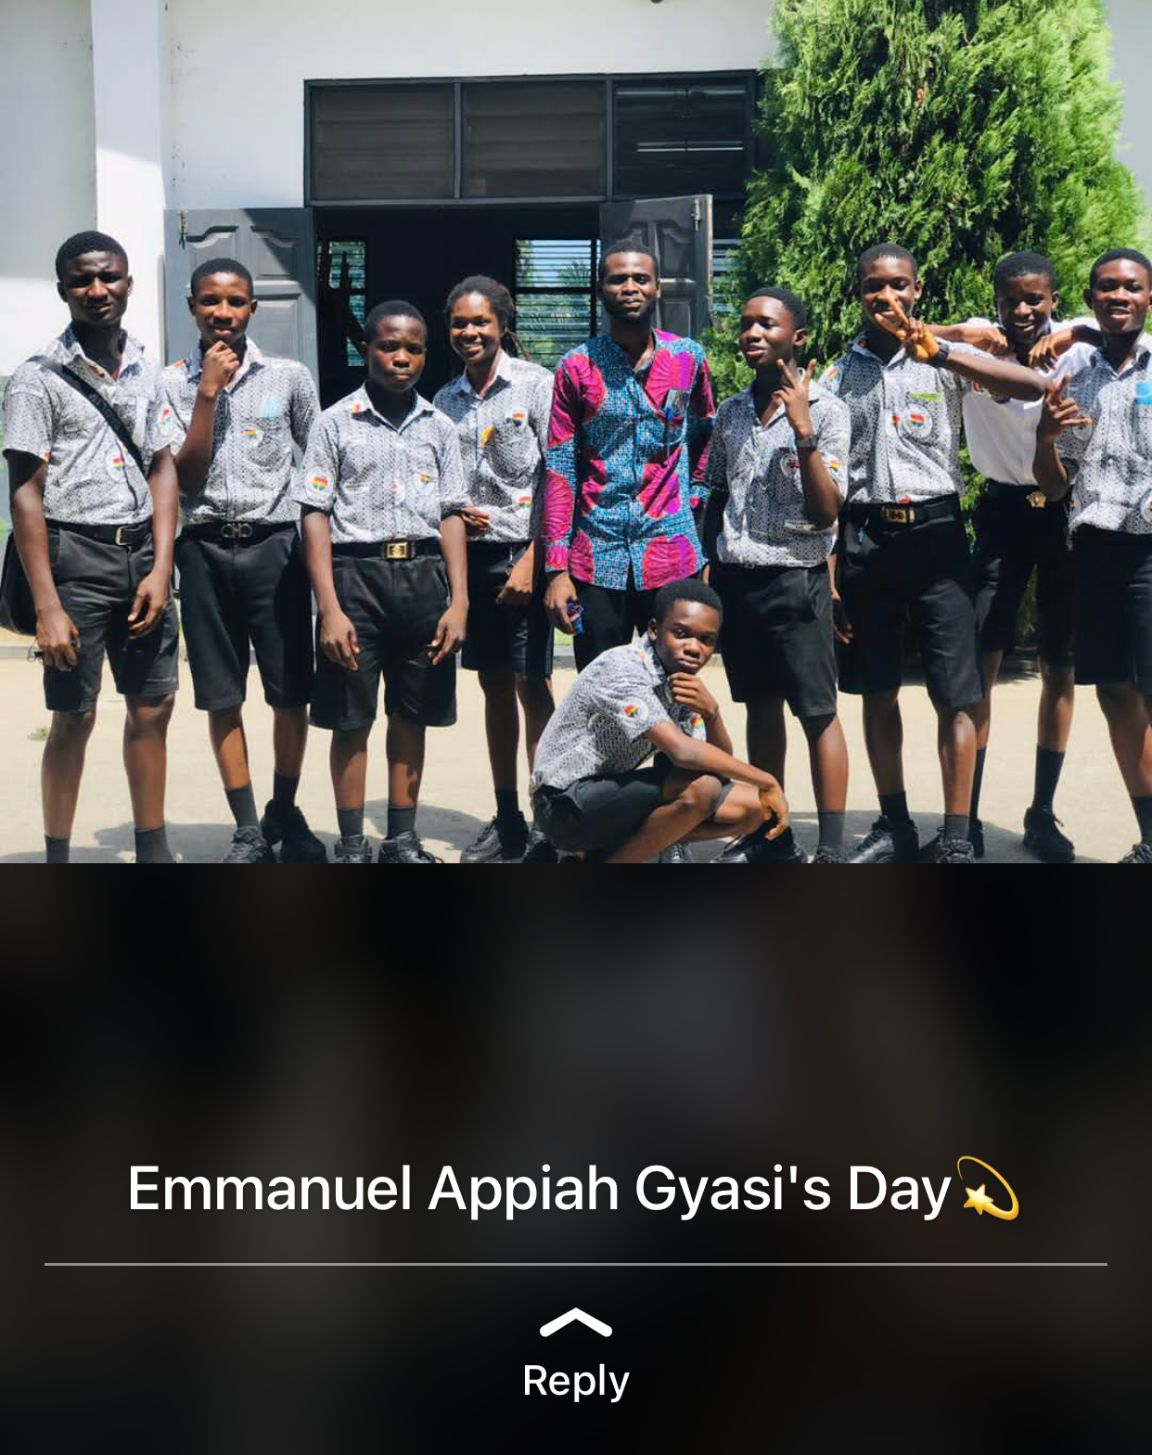
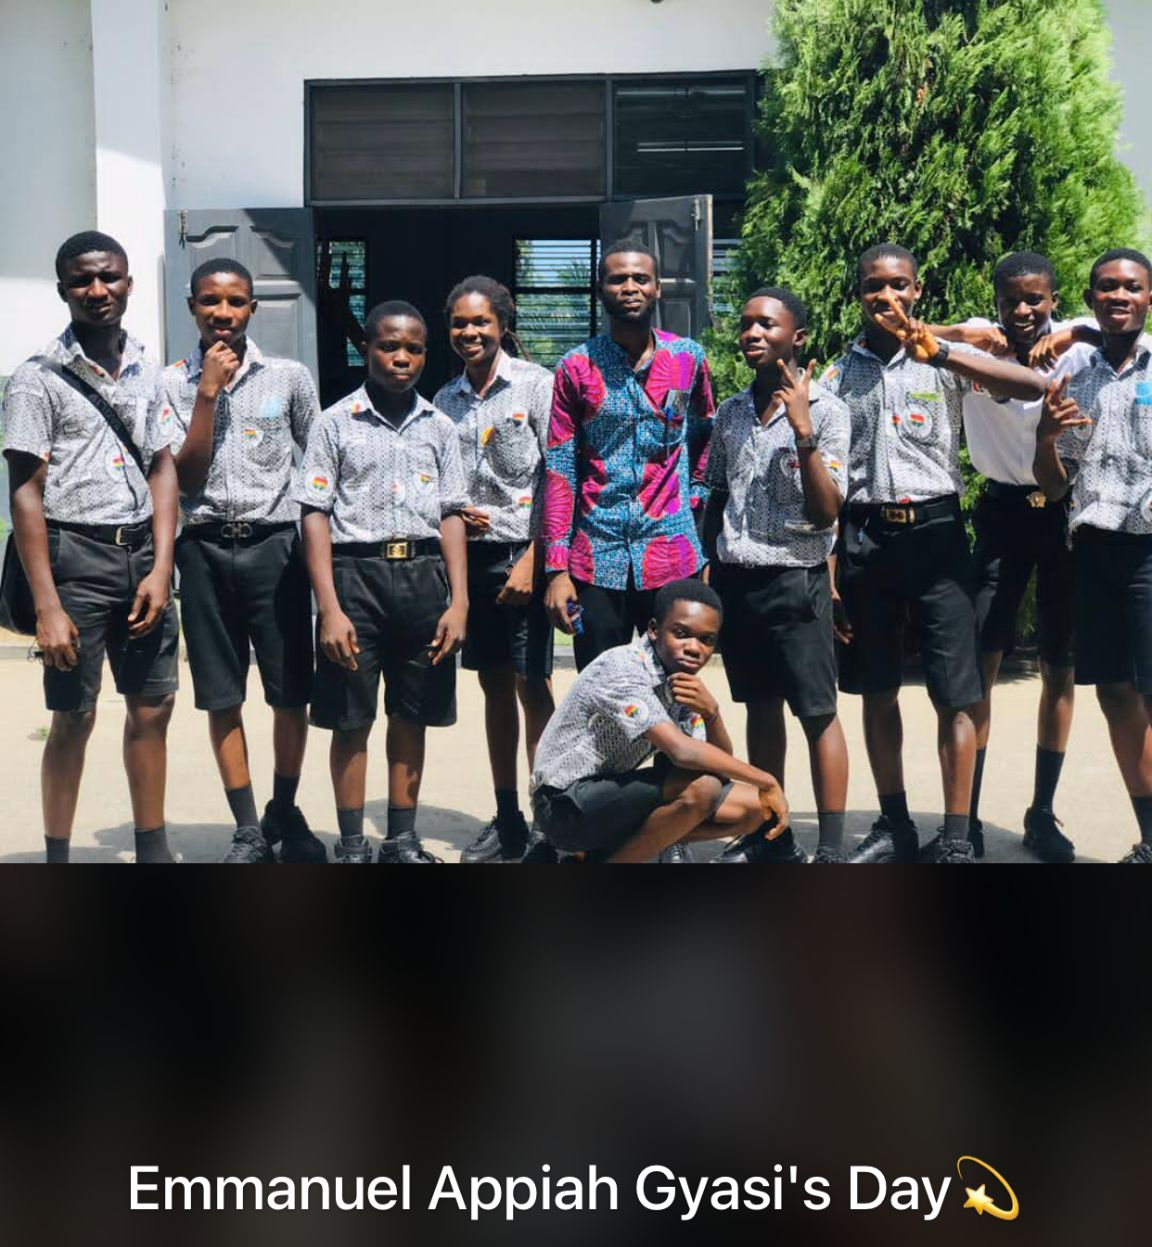
Lifestyle: crop Reply bar off photo 30, keep caption

diff --git a/lifestyle.html b/lifestyle.html
@@ -113,7 +113,7 @@
           <button type="button" class="tile"><img src="images/gallery/photo-25.jpg" width="1200" height="1600" alt="Service and Community photo 6" loading="lazy"></button>
           <button type="button" class="tile"><img src="images/gallery/photo-13.jpg" width="1600" height="1200" alt="Service and Community photo 7" loading="lazy"></button>
           <button type="button" class="tile"><img src="images/gallery/photo-04.jpg" width="1600" height="1200" alt="Service and Community photo 8" loading="lazy"></button>
-          <button type="button" class="tile"><img src="images/gallery/photo-30.jpg" width="1152" height="1455" alt="Service and Community photo 9" loading="lazy"></button>
+          <button type="button" class="tile"><img src="images/gallery/photo-30.jpg" width="1152" height="1247" alt="Service and Community photo 9" loading="lazy"></button>
       </div>
     </section>
 
